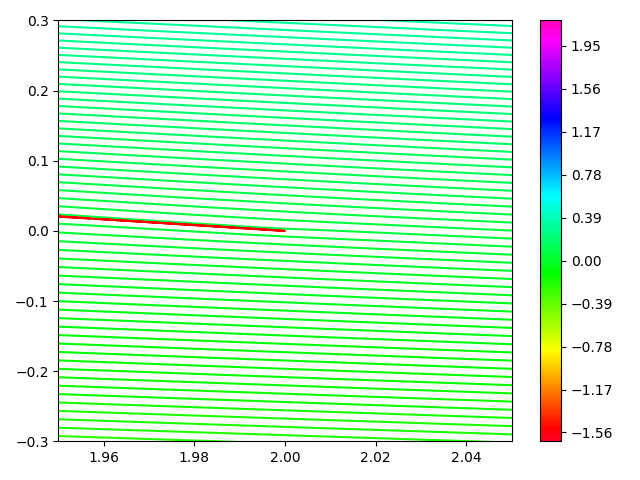
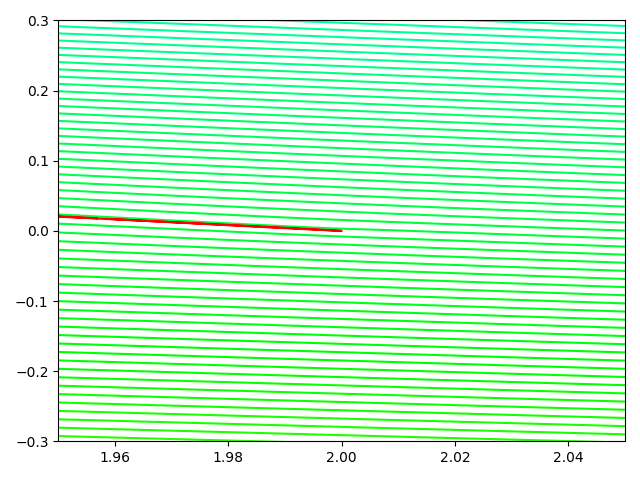
gekkie

diff --git a/Project 2/f.py b/Project 2/f.py
@@ -35,6 +35,7 @@ def PotentialData(potential, Nr=2000, lower=-5, upper=5):
 
 
 u = 1
+rho = 1
 transformation = Joukowski(1)
 circle = Circle(circleOrigin, circleRadius)
 wing = transformation(circle)
@@ -42,21 +43,25 @@ wing = transformation(circle)
 for gamma in [-2.72, 5]:
     potential = MakePotential(gamma, circleRadius, u, circleOrigin)
     Zs, data = PotentialData(potential)
+    #wing
     transformedZ = transformation(Zs)
     diffxt = np.diff(data, axis=1)/np.diff(transformedZ, axis=1)
+    wingpress = rho/2*(u**2-np.absolute(diffxt))
     plt.figure()
     plt.plot(wing.real, wing.imag, color="red")
-    plt.contour(transformedZ.real[:,:-1], transformedZ.imag[:,:-1], np.absolute(diffxt), levels=90)
+    plt.contour(transformedZ.real[:,:-1], transformedZ.imag[:,:-1], wingpress, levels=90)
     plt.xlim(-5, 5)
     plt.ylim(-5, 5)
     # plt.axis('equal')
     plt.colorbar()
     plt.tight_layout()
     plt.savefig(f"F-wing_{gamma}.png")
+    #circle
     diffx = np.diff(data, axis=1)/np.diff(Zs, axis=1)
+    cylinderpress = rho/2*(u**2-np.absolute(diffx))
     plt.figure()
     plt.plot(circle.real, circle.imag, color="red")
-    plt.contour(Zs.real[:,:-1], Zs.imag[:,:-1], np.absolute(diffx), levels=90)
+    plt.contour(Zs.real[:,:-1], Zs.imag[:,:-1], cylinderpress, levels=90)
     plt.xlim(-5, 5)
     plt.ylim(-5, 5)
     # plt.axis('equal')

diff --git a/Project 2/b.py b/Project 2/b.py
@@ -19,17 +19,17 @@ def MakeStreamPlot(potential, r, Nr=2000, Name=0):
     xs, ys = np.meshgrid(k, k)
     Zs = xs + ys * 1j
     Ps = potential(Zs)
-    Ps2 = np.ma.array(Ps, mask=np.where(np.absolute(Zs) > r, False, True))
+    Ps2 = np.ma.array(Ps, mask=np.where(np.absolute(Zs) >= r, False, True))
     plt.figure()
-    plt.contourf(Zs.real, Zs.imag, Ps2.imag, levels=50,cmap='gist_rainbow')
+    plt.contour(Zs.real, Zs.imag, Ps2.imag, levels=50,cmap='gist_rainbow')
     plt.axis('equal')
     plt.colorbar()
     plt.tight_layout()
-    plt.savefig(f"gamma-{Name}")
+    plt.savefig(f"gamma-{Name}.png")
 
 r = 1
 u = 1
 
-for gamma in [0, -3, -5, -69]:
+for gamma in [0, -3]:
     potential = MakePotential(gamma, r, u)
     MakeStreamPlot(potential, r, Name=gamma)

diff --git a/Project 2/e.py b/Project 2/e.py
@@ -64,7 +64,6 @@ for gamma in [-2.65, -2.68, -2.72, -2.75]:
     plt.xlim(1.95, 2.05)
     plt.ylim(-.3, .3)
     # plt.axis('equal')
-    plt.colorbar()
     plt.tight_layout()
     plt.savefig(f"Einzoom_{gamma}.png")
     # plt.show()
